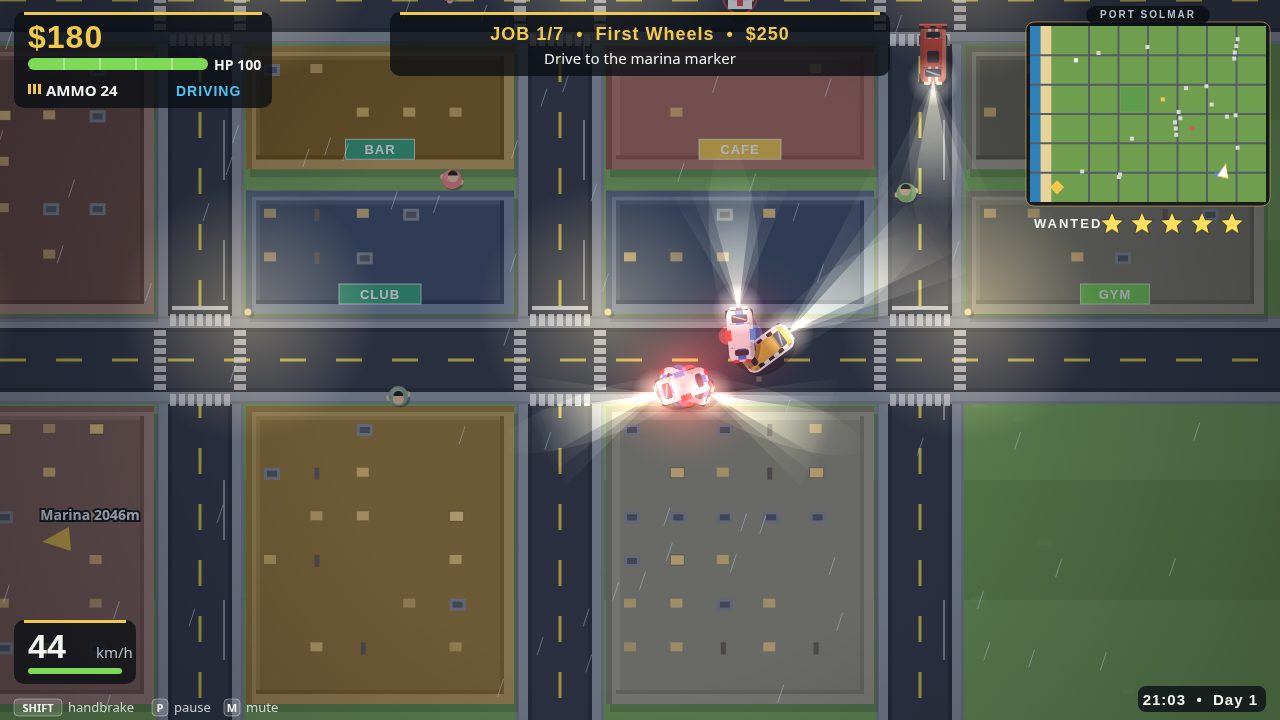
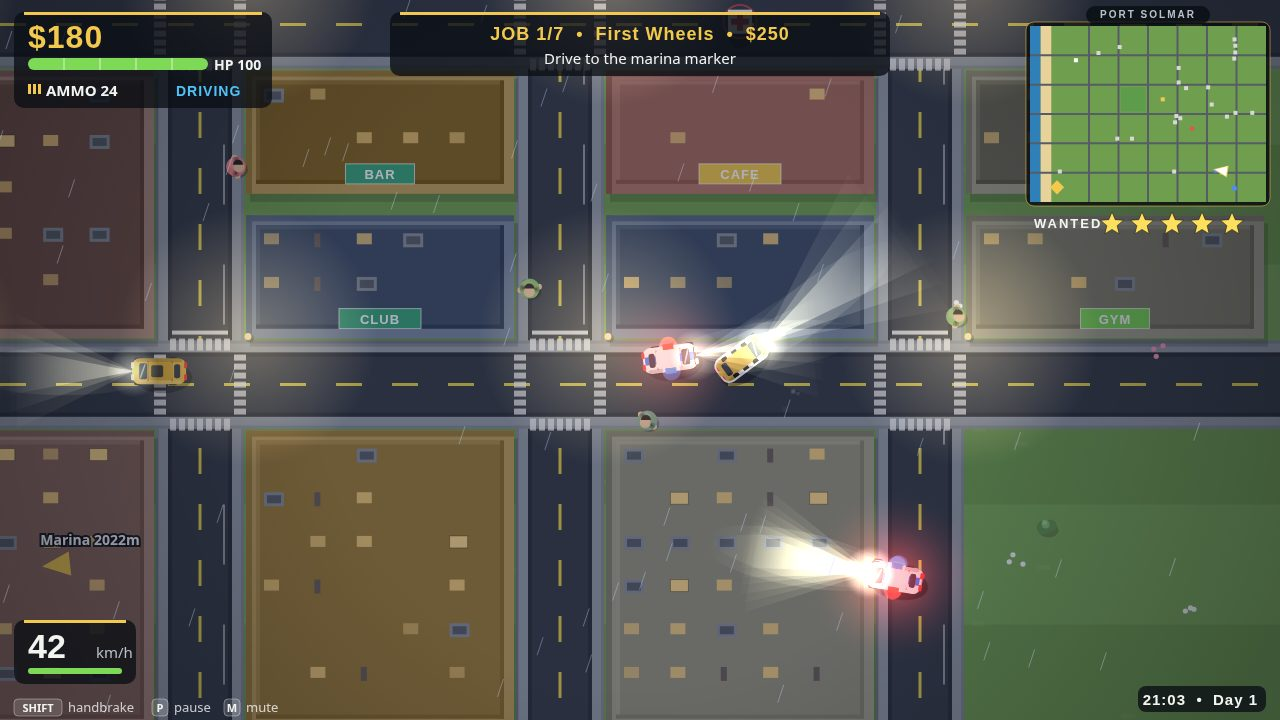
Solmar Heat v5: police follow roads, traffic lanes, courier framed in mission shot, brighter night ground cover, narrower title panel, bigger roof details, more boats

diff --git a/game/src/render.js b/game/src/render.js
@@ -19,8 +19,8 @@ export const SCREEN_OVER = 'over';
 
 const MINIMAP = { x: VIEW.width - 250, y: 26, w: 236, h: 176 };
 
-// The three boats anchored in the bay (x, y, hull colour).
-const BOATS = [[70, 480, '#f4f6f8'], [100, 1420, '#e8b73d'], [55, 980, '#d94f3d']];
+// The six boats anchored in the bay (x, y, hull colour).
+const BOATS = [[70, 480, '#f4f6f8'], [100, 1420, '#e8b73d'], [55, 980, '#d94f3d'], [120, 300, '#4fc3f7'], [45, 1700, '#7ed957'], [90, 1900, '#f4f6f8']];
 // The named places dotted on the minimap (place, colour).
 const PLACE_DOTS = [
   [PLACES.marina, '#4fc3f7'], [PLACES.plaza, '#f2c94c'], [PLACES.docks, '#ffffff'],
@@ -460,28 +460,28 @@ export function createRenderer(canvas) {
           if (r < 0.16) {
             // AC unit: grey box with a darker grille.
             context.fillStyle = '#8d9299';
-            context.fillRect(wx, wy, 16, 12);
+            context.fillRect(wx, wy, 20, 14);
             context.fillStyle = '#5b6067';
-            context.fillRect(wx + 3, wy + 3, 10, 6);
+            context.fillRect(wx + 3, wy + 3, 14, 8);
           } else if (r < 0.26) {
             // Skylight: pale blue glass catching the sky.
             context.fillStyle = nf > 0.4 ? '#ffd98a' : '#bcd8e8';
-            context.fillRect(wx, wy, 14, 10);
+            context.fillRect(wx, wy, 18, 12);
             context.strokeStyle = 'rgba(0,0,0,0.3)';
             context.lineWidth = 1;
-            context.strokeRect(wx, wy, 14, 10);
+            context.strokeRect(wx, wy, 18, 12);
           } else if (r < 0.34) {
             // Vent pipe.
             context.fillStyle = '#6e6258';
-            context.fillRect(wx + 4, wy, 5, 12);
+            context.fillRect(wx + 4, wy, 6, 14);
           } else if (nf > 0.35 && r < 0.62) {
             // Lit window: warm glass after dark.
             context.fillStyle = `rgba(255,214,130,${(0.55 + 0.35 * hash(r * 91)).toFixed(2)})`;
-            context.fillRect(wx, wy, 12, 9);
+            context.fillRect(wx, wy, 15, 11);
           } else if (nf <= 0.35 && r < 0.5) {
             // Daytime roof tile shading.
             context.fillStyle = 'rgba(255,255,255,0.10)';
-            context.fillRect(wx, wy, 12, 9);
+            context.fillRect(wx, wy, 15, 11);
           }
         }
       }
@@ -558,38 +558,52 @@ export function createRenderer(canvas) {
 
     // Ground cover on the open lawns: deterministic bushes and wildflower
     // dots, so the big grass blocks are not flat green. Skips roads,
-    // buildings, the park, the plaza, the docks and the beach.
-    for (let gx = Math.floor(vx0 / 120) * 120; gx < vx1; gx += 120) {
-      for (let gy = Math.floor(vy0 / 120) * 120; gy < vy1; gy += 120) {
+    // buildings, the park, the plaza, the docks and the beach. At night
+    // the bushes and flowers are drawn a shade lighter and a touch
+    // larger, and sown denser, so the night wash does not swallow them
+    // whole — the bottom-right lawn in the chase frame reads as ground
+    // cover, not an empty dark slab.
+    const coverT = nf > 0.35 ? 0.22 : 0.13;
+    const coverStep = nf > 0.35 ? 90 : 120;
+    for (let gx = Math.floor(vx0 / coverStep) * coverStep; gx < vx1; gx += coverStep) {
+      for (let gy = Math.floor(vy0 / coverStep) * coverStep; gy < vy1; gy += coverStep) {
         const h1 = hash(gx * 0.53 + gy * 0.29);
-        if (h1 >= 0.09) continue;
+        if (h1 >= coverT) continue;
         const bx = gx + 20 + hash(gx * 1.7 + gy) * 80;
         const by = gy + 20 + hash(gx + gy * 1.3) * 80;
         if (bx < CITY.beachWidth || isRoad(city, bx, by) || buildingHit(city, bx, by, 10)) continue;
         if (bx > city.park.x - 10 && bx < city.park.x + city.park.w + 10 && by > city.park.y - 10 && by < city.park.y + city.park.h + 10) continue;
         if (bx > 1462 && bx < 1778 && by > 742 && by < 1058) continue;
         if (bx > 282 && bx < 666 && ((by > 382 && by < 698) || (by > 1822 && by < 2138))) continue;
-        if (h1 < 0.05) {
+        if (h1 < coverT * 0.55) {
           context.fillStyle = 'rgba(0,0,0,0.18)';
           context.beginPath();
           context.ellipse(bx + 2, by + 3, 10, 7, 0, 0, Math.PI * 2);
           context.fill();
-          context.fillStyle = '#4c7a3a';
+          context.fillStyle = nf > 0.35 ? '#6a9a52' : '#4c7a3a';
           context.beginPath();
           context.arc(bx - 3, by, 7, 0, Math.PI * 2);
           context.fill();
           context.beginPath();
           context.arc(bx + 4, by - 2, 6, 0, Math.PI * 2);
           context.fill();
-          context.fillStyle = '#6aa84f';
+          context.fillStyle = nf > 0.35 ? '#8cc46e' : '#6aa84f';
           context.beginPath();
           context.arc(bx - 1, by - 3, 4, 0, Math.PI * 2);
           context.fill();
+          if (nf > 0.35) {
+            // A pale top leaf catching what light there is.
+            context.fillStyle = '#a5d68f';
+            context.beginPath();
+            context.arc(bx - 2, by - 5, 2.5, 0, Math.PI * 2);
+            context.fill();
+          }
         } else {
-          context.fillStyle = hash(bx + by) < 0.5 ? '#e8e4d8' : '#e07a9b';
+          const dotR = nf > 0.35 ? 2.6 : 1.8;
+          context.fillStyle = hash(bx + by) < 0.5 ? (nf > 0.35 ? '#ffffff' : '#e8e4d8') : (nf > 0.35 ? '#ff9ebb' : '#e07a9b');
           for (let f = 0; f < 3; f += 1) {
             context.beginPath();
-            context.arc(bx + hash(bx * 3 + f) * 16 - 8, by + hash(by * 5 + f) * 12 - 6, 1.8, 0, Math.PI * 2);
+            context.arc(bx + hash(bx * 3 + f) * 16 - 8, by + hash(by * 5 + f) * 12 - 6, dotR, 0, Math.PI * 2);
             context.fill();
           }
         }
@@ -829,6 +843,9 @@ export function createRenderer(canvas) {
       let lx = clamp(sx, 90, VIEW.width - 90);
       let ly = clamp(sy, 26, VIEW.height - 26);
       if (state.player.car && lx < 210 && ly > VIEW.height - 118) ly = VIEW.height - 118;
+      // The minimap and its WANTED stars own the top-right corner: a
+      // label landing there would sit on top of the stars.
+      if (lx > 1000 && ly < 252) ly = 252;
       return { x: vx0 + lx, y: vy0 + ly };
     };
     const inView = t.x > vx0 && t.x < vx0 + VIEW.width && t.y > vy0 && t.y < vy0 + VIEW.height;
@@ -1085,6 +1102,19 @@ export function createRenderer(canvas) {
     context.fillStyle = 'rgba(255,255,255,0.18)';
     context.beginPath();
     context.arc(x - 2, y - 3, radius * 0.55, 0, Math.PI * 2);
+    context.fill();
+    // Belt across the waist and darker shoulder pads, so a figure still
+    // reads as a dressed person at screenshot scale instead of a plain dot.
+    context.strokeStyle = 'rgba(0,0,0,0.35)';
+    context.lineWidth = 2;
+    context.beginPath();
+    context.moveTo(x - perpX * (radius - 2), y - perpY * (radius - 2));
+    context.lineTo(x + perpX * (radius - 2), y + perpY * (radius - 2));
+    context.stroke();
+    context.fillStyle = 'rgba(0,0,0,0.22)';
+    context.beginPath();
+    context.arc(x - perpX * (radius - 3), y - perpY * (radius - 3), 3, 0, Math.PI * 2);
+    context.arc(x + perpX * (radius - 3), y + perpY * (radius - 3), 3, 0, Math.PI * 2);
     context.fill();
     // Head, pushed a little toward the facing direction, with hair.
     context.fillStyle = skin;
@@ -1373,8 +1403,8 @@ export function createRenderer(canvas) {
     context.restore();
   }
 
-  function drawPanel(title, lines, prompt, accent) {
-    const width = 660;
+  function drawPanel(title, lines, prompt, accent, panelWidth) {
+    const width = panelWidth || 660;
     const height = 168 + lines.length * 32;
     const x = (VIEW.width - width) / 2;
     const y = (VIEW.height - height) / 2;
@@ -1458,7 +1488,7 @@ export function createRenderer(canvas) {
         'WASD / arrows to move and drive  •  E to enter a car  •  Click to shoot',
         `Best haul so far: $${(extra.best || 0).toLocaleString('en-US')}`,
       ];
-      drawPanel('SOLMAR HEAT', lines, extra.saveExists ? 'Press Space to start — or C to continue your save' : 'Press Space or click to start', PALETTE.gold);
+      drawPanel('SOLMAR HEAT', lines, extra.saveExists ? 'Press Space to start — or C to continue your save' : 'Press Space or click to start', PALETTE.gold, 600);
       // Seven gold pips for the seven jobs, under the panel.
       for (let i = 0; i < 7; i += 1) {
         context.fillStyle = PALETTE.gold;

diff --git a/game/src/entities.js b/game/src/entities.js
@@ -97,11 +97,35 @@ function spawnTraffic(state, count) {
   for (let i = 0; i < count; i += 1) {
     const p = randomRoadPoint(state.city, state.rng);
     const angle = p.axis === 'x' ? (state.rng.chance(0.5) ? Math.PI / 2 : -Math.PI / 2) : (state.rng.chance(0.5) ? 0 : Math.PI);
-    const car = makeCar(p.x, p.y, angle, state.rng.pick(CAR_COLORS), state.rng.pick(['sedan', 'sedan', 'taxi', 'van', 'sports']), 'traffic', p.axis);
+    // Right-hand lanes: each car sits half a car width to the right of
+    // its direction of travel, so oncoming cars pass in the other lane
+    // instead of head-on down the centre line.
+    const off = laneOffset(angle);
+    const x = p.axis === 'x' ? nearestLineValue(state.city.vertical, p.x) + off.x : p.x;
+    const y = p.axis === 'y' ? nearestLineValue(state.city.horizontal, p.y) + off.y : p.y;
+    const car = makeCar(x, y, angle, state.rng.pick(CAR_COLORS), state.rng.pick(['sedan', 'sedan', 'taxi', 'van', 'sports']), 'traffic', p.axis);
     car.dir = state.rng.chance(0.5) ? 1 : -1;
     car.speed = CAR.trafficSpeed * state.rng.range(0.8, 1.1);
     state.cars.push(car);
   }
+}
+
+/** Half a car width to the right of a cardinal heading (right-hand lanes). */
+function laneOffset(angle) {
+  const a = ((angle % (Math.PI * 2)) + Math.PI * 2) % (Math.PI * 2);
+  if (a < Math.PI / 4 || a >= Math.PI * 7 / 4) return { x: 0, y: 14 }; // east: right is south
+  if (a < Math.PI * 3 / 4) return { x: -14, y: 0 }; // south: right is west
+  if (a < Math.PI * 5 / 4) return { x: 0, y: -14 }; // west: right is north
+  return { x: 14, y: 0 }; // north: right is east
+}
+
+/** The road centre line nearest a value. */
+function nearestLineValue(lines, value) {
+  let best = lines[0];
+  for (const line of lines) {
+    if (Math.abs(line - value) < Math.abs(best - value)) best = line;
+  }
+  return best;
 }
 
 function spawnParked(state, count) {
@@ -490,7 +514,9 @@ function stepTraffic(state, dt) {
     // Ease off for the car ahead on the same road. The look-ahead is
     // long enough to stop with a real bumper gap: a car is 54 long, so
     // a follower that only brakes inside 80px ends up nose-to-tail at
-    // 34px centres — visibly overlapping the car ahead.
+    // 34px centres — visibly overlapping the car ahead. The side window
+    // is 18px: same-lane cars sit ~0px apart laterally, oncoming cars
+    // in the other lane sit 28px away and must not make this car brake.
     let ahead = null;
     let aheadDist = 0;
     for (const other of state.cars) {
@@ -499,7 +525,7 @@ function stepTraffic(state, dt) {
       const dy = other.y - car.y;
       const forward = Math.cos(car.angle) * dx + Math.sin(car.angle) * dy;
       const side = Math.abs(-Math.sin(car.angle) * dx + Math.cos(car.angle) * dy);
-      if (forward > 0 && forward < 120 && side < 30 && (!ahead || forward < aheadDist)) {
+      if (forward > 0 && forward < 120 && side < 18 && (!ahead || forward < aheadDist)) {
         ahead = other;
         aheadDist = forward;
       }
@@ -519,6 +545,12 @@ function stepTraffic(state, dt) {
       car.angle += turnLeft ? -Math.PI / 2 : Math.PI / 2;
       car.axis = car.axis === 'x' ? 'y' : 'x';
       car.turnCooldown = 2;
+      // A turn changes roads: snap onto the new road's right-hand lane
+      // for the new heading, or the car would keep driving down the
+      // wrong side after every corner.
+      const off = laneOffset(car.angle);
+      if (car.axis === 'x') car.x = nearestLineValue(state.city.vertical, car.x) + off.x;
+      else car.y = nearestLineValue(state.city.horizontal, car.y) + off.y;
     }
     // Wrap around the far edge so traffic never runs out.
     if (car.x < CITY.beachWidth + 40) car.x = WORLD.width - 80;
@@ -526,12 +558,15 @@ function stepTraffic(state, dt) {
     if (car.y < 40) car.y = WORLD.height - 80;
     if (car.y > WORLD.height - 40) car.y = 80;
   }
-  // Traffic cars nudge each other apart instead of stacking up.
+  // Traffic cars nudge each other apart instead of stacking up — but
+  // never oncoming cars in the other lane: they pass 28px apart by
+  // design, and shoving them would push both out of their lanes.
   const movers = state.cars.filter((c) => (c.driver === 'traffic' || c.driver === 'courier') && !c.wrecked);
   for (let i = 0; i < movers.length; i += 1) {
     for (let j = i + 1; j < movers.length; j += 1) {
       const a = movers[i];
       const b = movers[j];
+      if (Math.cos(a.angle) * Math.cos(b.angle) + Math.sin(a.angle) * Math.sin(b.angle) < -0.5) continue;
       const d = dist(a.x, a.y, b.x, b.y);
       if (d > 0.1 && d < CAR.radius * 2 - 6) {
         const push = (CAR.radius * 2 - 6 - d) / 2;
@@ -662,7 +697,10 @@ function stepPoliceCars(state, dt) {
       car.routeIndex += 1;
       wp = car.route[car.routeIndex];
     }
-    if (d < 220) wp = { x: player.x, y: player.y }; // close in: straight at them
+    // No short-range beeline at the player: the last route waypoint is
+    // the player, so the cruiser still closes in — but it gets there
+    // along the roads, instead of cutting across grass and the park
+    // the moment it gets within 220px.
     const want = Math.atan2(wp.y - car.y, wp.x - car.x);
     const diff = angleDiff(car.angle, want);
     car.angle += clamp(diff, -2.4 * dt, 2.4 * dt);

diff --git a/game/src/shots.js b/game/src/shots.js
@@ -116,6 +116,52 @@ function returnToRoad(state, step) {
     () => state.player.car && isRoad(state.city, state.player.x, state.player.y));
 }
 
+/** True when the courier van is on the same road ahead of the player
+ * car, 200–400px out — close enough to read as the car being tailed,
+ * far enough that the tail timer (which needs <230px) barely moves —
+ * and no cruiser is glued to it, so the frame does not catch a police
+ * car stacked on top of the van. */
+function courierAhead(state) {
+  const van = state.mission && state.mission.targetCar;
+  const car = state.player.car;
+  if (!van || van.wrecked || !car) return false;
+  const dx = van.x - car.x;
+  const dy = van.y - car.y;
+  const d = Math.hypot(dx, dy);
+  if (d > 400 || d < 200) return false;
+  const ahead = Math.cos(car.angle) * dx + Math.sin(car.angle) * dy;
+  if (ahead <= 0) return false;
+  if (Math.abs(van.y - car.y) >= 40 && Math.abs(van.x - car.x) >= 40) return false;
+  for (const other of state.cars) {
+    if (other.driver === 'police' && !other.wrecked && Math.hypot(other.x - van.x, other.y - van.y) < 130) return false;
+  }
+  return true;
+}
+
+/** Frame the tailing job's closing shot: stage the player car on the
+ * van's eastbound leg (the top of its loop, y=720, facing east), then
+ * wait for the van to come round onto the same road ahead. If the van
+ * has already parked at the end of its loop, drive to a spot on its
+ * road 300px short of it instead. The job stays JOB 3/7 either way. */
+function frameCourier(state, step) {
+  const van = state.mission && state.mission.targetCar;
+  if (!van || !state.player.car) return;
+  simulate(state, step, 12, 1750, 720, () => courierAhead(state));
+  if (courierAhead(state)) return;
+  const idle = { mx: 0, my: 0, run: false, enter: false, melee: false, firing: false };
+  for (let t = 0; t < 45; t += SAMPLE) {
+    step(state, idle, SAMPLE);
+    if (courierAhead(state)) return;
+    if (!state.mission || state.mission.phase !== 'tail') return;
+  }
+  const v = state.mission && state.mission.targetCar;
+  if (v && !v.wrecked) {
+    const onH = Math.abs(v.y - 1440) < 60; // parked at the loop's end
+    simulate(state, step, 12, onH ? v.x - 300 : v.x, onH ? v.y : v.y - 300,
+      () => courierAhead(state));
+  }
+}
+
 /**
  * Set the world to the named scene (start, play, chase or mission; any
  * other name is start) and return the screen to draw over it.
@@ -158,15 +204,18 @@ export function stageShot(name, state, step) {
     putPlayerInCar(state);
     simulate(state, step, 15, PLACES.plaza.x, PLACES.plaza.y);
     returnToRoad(state, step);
+    frameCourier(state, step);
     return { screen: SCREEN_PLAY, best: 0 };
   }
   // start: morning on Harbour Row, on foot beside a parked car. The camera
-  // sits off-centre so the player shows beside the title panel, not under it.
+  // sits off-centre so the player shows beside the title panel, not under it,
+  // and the panel's narrower width leaves a car or a pedestrian visible
+  // in the margin on the far side.
   state.clock = 9 * 3600;
   for (let i = 0; i < 5 / SAMPLE; i += 1) {
     step(state, { mx: 0, my: 0, run: false, enter: false, melee: false, firing: false }, SAMPLE);
   }
-  state.camera.x = state.player.x + 420;
+  state.camera.x = state.player.x + 500;
   state.camera.y = state.player.y;
   return { screen: SCREEN_TITLE, best: 0 };
 }

diff --git a/game/src/missions.js b/game/src/missions.js
@@ -60,7 +60,7 @@ function openJob(state, index) {
       break;
     case 2: {
       const spot = randomRoadPoint(state.city, state.rng);
-      const van = makeCar(spot.x, spot.y, 0, '#e8e8e8', 'van', 'courier', spot.axis);
+      const van = makeCar(spot.x, spot.y, 0, '#e8e8e8', 'courier', 'courier', spot.axis);
       van.wpIndex = 0;
       state.cars.push(van);
       mission.targetCar = van;
